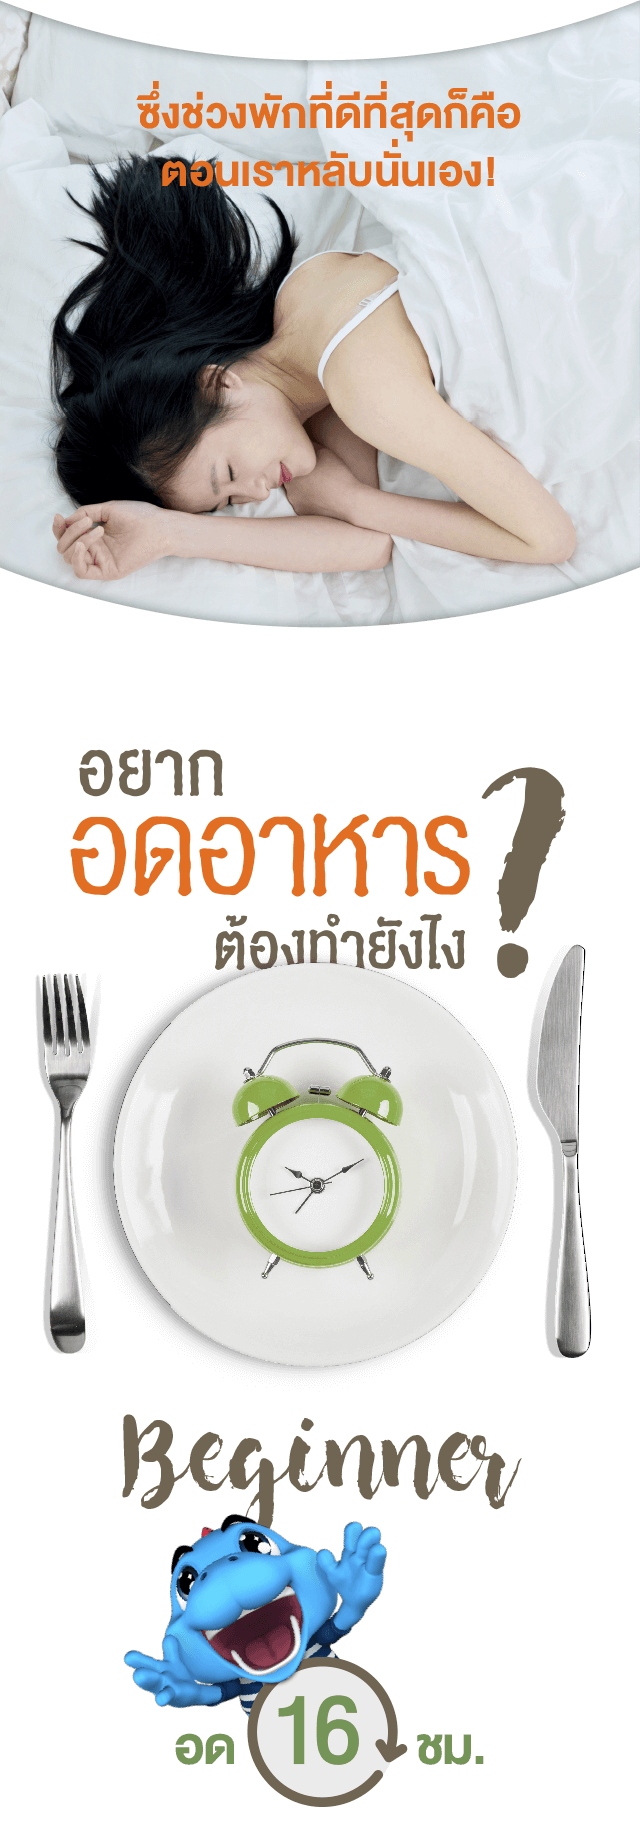
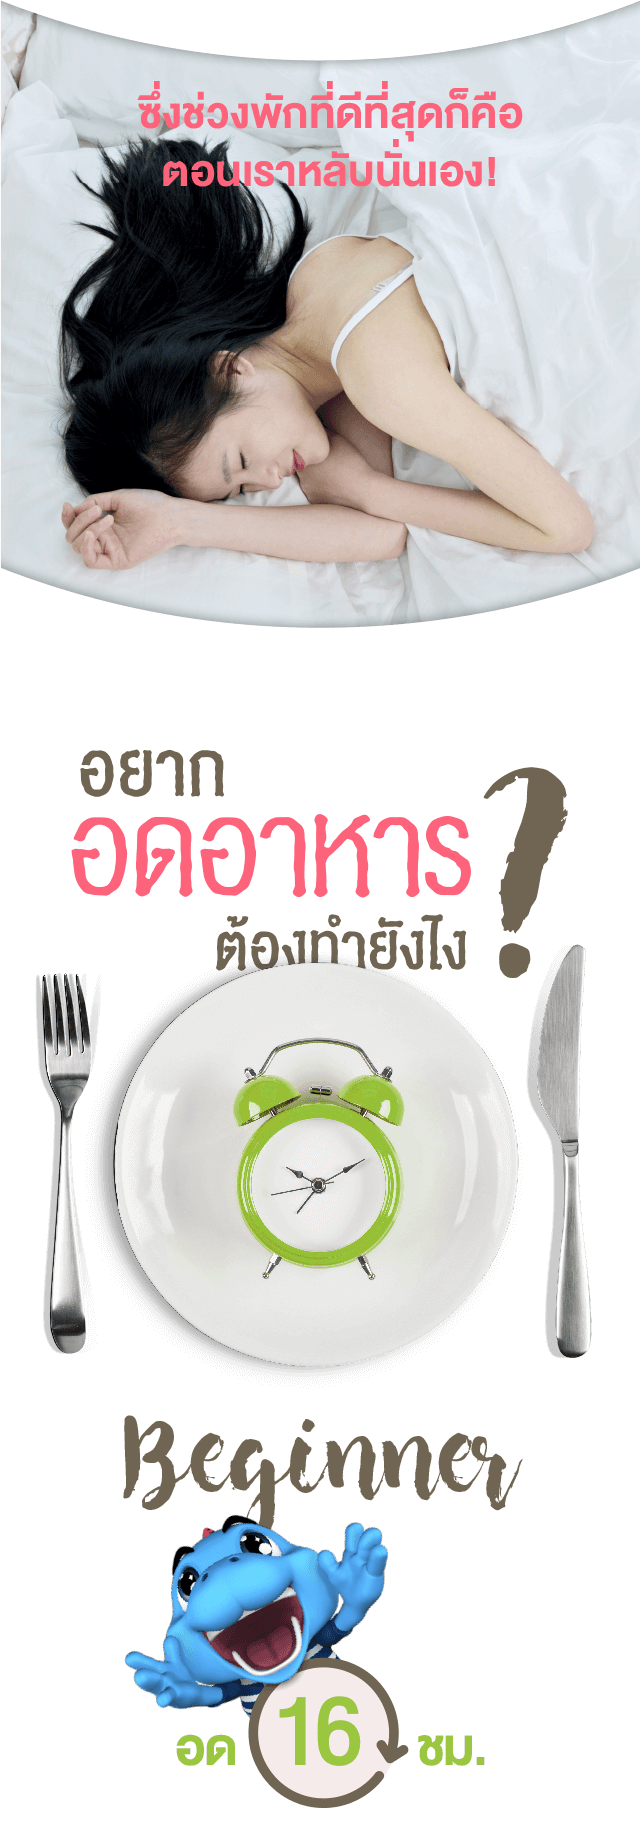
update

diff --git a/ReadAroundByPTT.Com/food_for_good/index.html b/ReadAroundByPTT.Com/food_for_good/index.html
@@ -116,7 +116,7 @@
             <img src="images/SHARE_12.png" />
         </div>
     </div>
-    <!-- section 02 
+    <!-- section 02 -->
     <div class="block section-Know">
         <div id="#sec2" class="block ">
             <img src="images/KNOW_01.png" />
@@ -127,7 +127,7 @@
                     โอย แค่ลองไดเอ็ทมื้อเดียว
                     <br> ก็ไม่ไหวซะแล้ว แต่เพื่อนๆ รู้มั้ยว่า
                     <br>
-                    <span class="text_orange bold">การอดอาหารอย่างถูกวิธี</span>
+                    <span class="text_pink bold">การอดอาหารอย่างถูกวิธี</span>
                     <br>เป็นหนึ่งในการรักษาตามแนว
                     <br> แพทย์ทางเลือกเลยนะ
                 </p>
@@ -174,7 +174,7 @@
             <div class="text text_gray text-ac">
                 <p>
                     เทคนิคคือ
-                    <span class="text_orange bold">กินมื้อเช้าให้สายหน่อย<br>
+                    <span class="text_pink bold">กินมื้อเช้าให้สายหน่อย<br>
 ประมาณ 10.00 น. และกินมื้อเย็น<br>
 ให้เสร็จก่อน 18.00 น.</span>
                     <br> ก็จะได้ช่วงเวลาอดอาหารตั้งแต่เย็น
@@ -189,7 +189,7 @@
             <div class="text text_gray text-ac">
                 <p>
                     เป็นการอดที่ต่างประเทศนิยมกัน
-                    <br> คือ <span class="text_orange bold">งดมื้อเย็นวันนี้และมื้อเช้าวันรุ่งขึ้น</span>
+                    <br> คือ <span class="text_pink bold">งดมื้อเย็นวันนี้และมื้อเช้าวันรุ่งขึ้น</span>
                     <br> แล้วมากินตอนกลางวัน
                     <br> เราก็จะอดอาหารได้ยาวถึง 23 ชม.
                 </p>
@@ -202,9 +202,9 @@
             <div class="text text_gray text-ac">
                 <p>อดวันเว้นวัน หรือที่เรียกว่า
                     <br>
-                    <span class="text_orange bold">Alternate Day Fasting</span> คือ
+                    <span class="text_pink bold">Alternate Day Fasting</span> คือ
                     <br>
-                    <span class="text_orange bold">กิน 1 วัน แล้วหยุดกิน 1 วัน </span>
+                    <span class="text_pink bold">กิน 1 วัน แล้วหยุดกิน 1 วัน </span>
                     <br> มื้อสุดท้ายคือมื้อเย็นตอน 20.00 น.
                     <br> แล้วหยุดกินไป 1 วัน ก่อนจะเริ่ม
                     <br> กินในเช้าอีกวันตอน 8.00 น.
@@ -228,9 +228,9 @@
             </div>
         </div>
         <div class="block">
-            <a href="https://www.pttbluecard.com/blueluckydraw" target="_blank"><img src="images/KNOW_09_FIX.png" /></a>
+            <a href="https://www.pttbluecard.com/blueluckydraw" target="_blank"><img src="images/KNOW_11.png" /></a>
         </div>
-    </div>-->
+    </div>
     <script src="js/jquery.scrolldepth.min.js"></script>
     <script>
     jQuery(function() {
